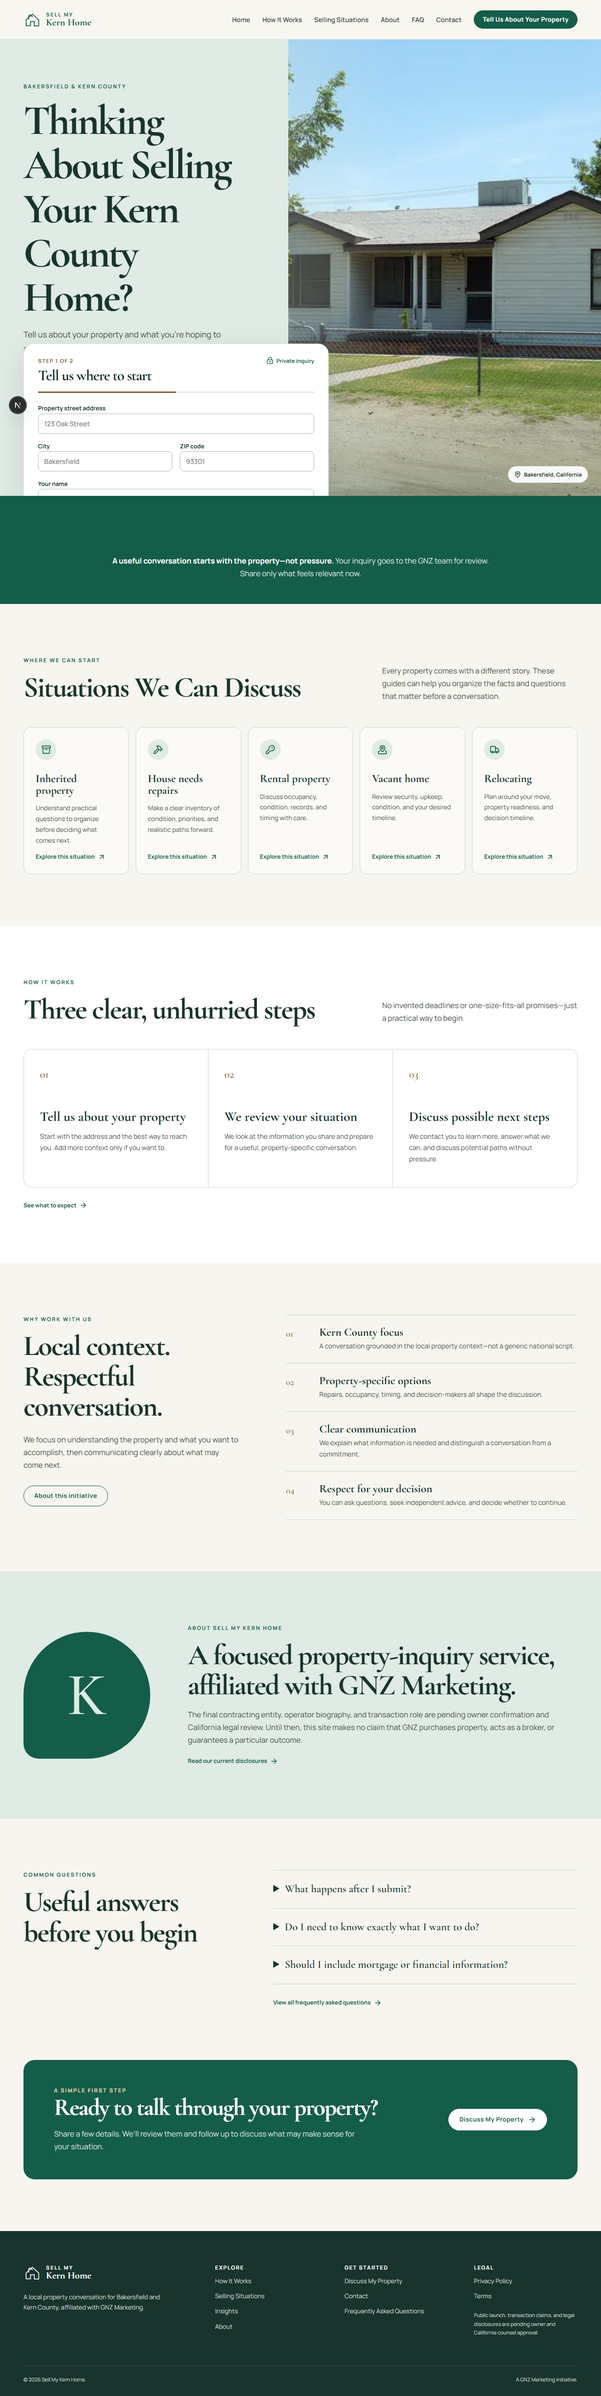
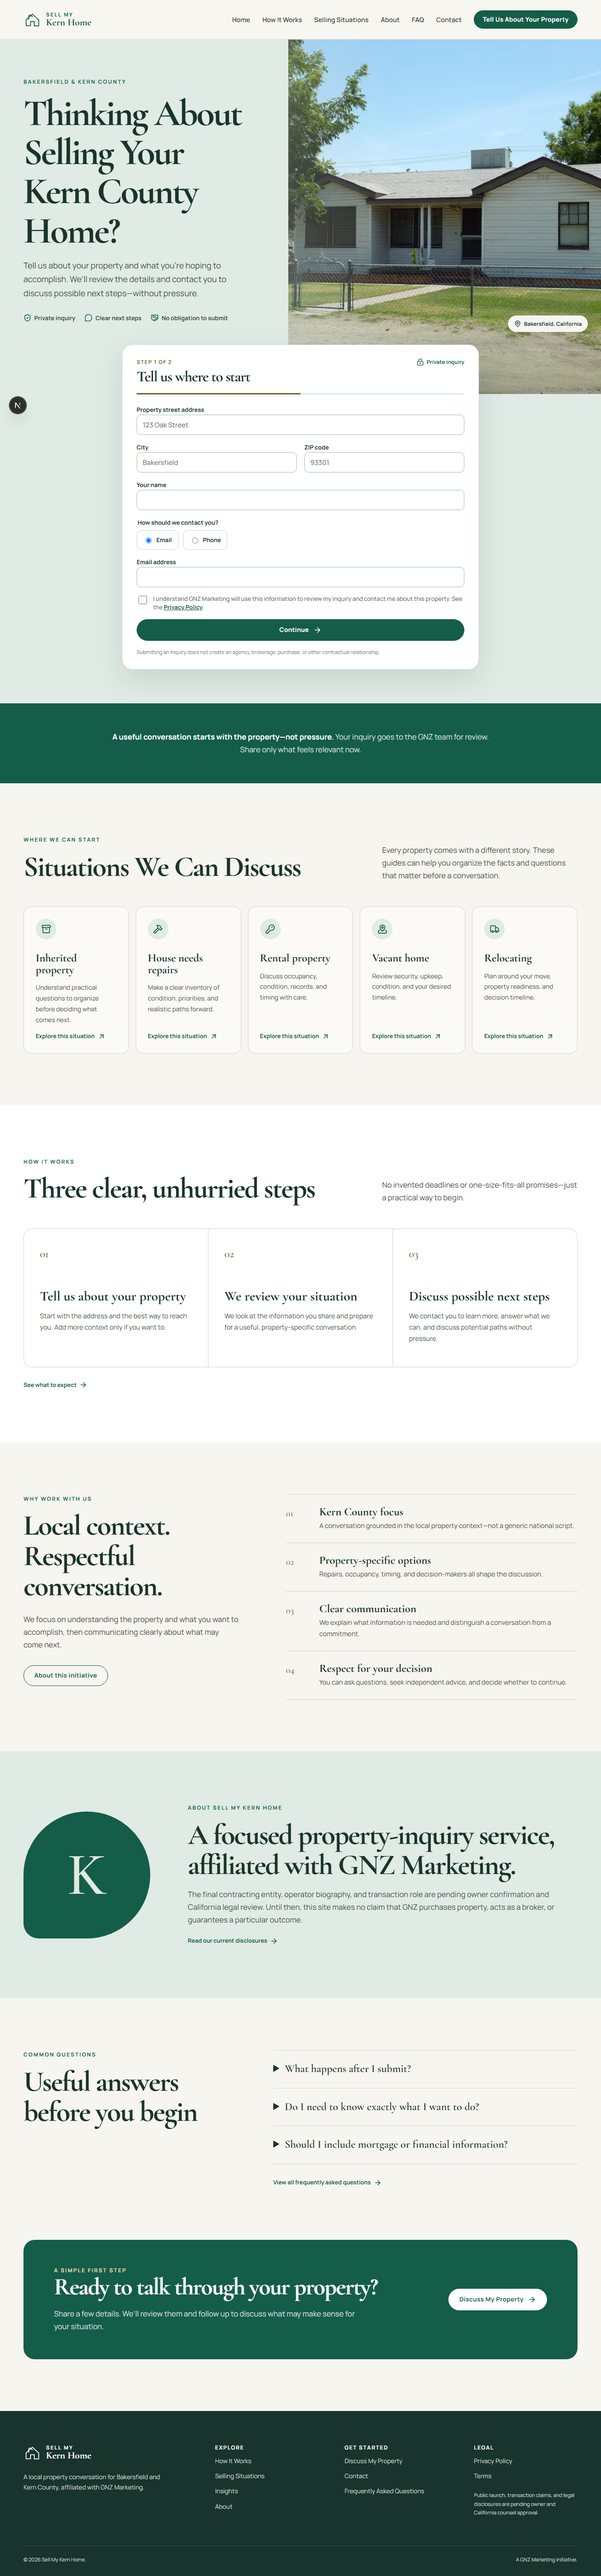
Fixed Interface and Turnstile Issues

diff --git a/components/PropertyForm.js b/components/PropertyForm.js
@@ -11,6 +11,18 @@ const empty = {
   privacyAcknowledged: false, marketingConsent: false, propertyType: "", condition: "", occupancy: "", timing: "", comments: "", website: "",
 };
 
+function firstStepErrors(data) {
+  const next = {};
+  if (data.propertyAddress.trim().length < 4) next.propertyAddress = "Enter the property street address.";
+  if (data.propertyCity.trim().length < 2) next.propertyCity = "Enter the property city.";
+  if (!/^\d{5}(-\d{4})?$/.test(data.propertyZip.trim())) next.propertyZip = "Enter a valid ZIP code.";
+  if (data.name.trim().length < 2) next.name = "Enter your name.";
+  if (data.preferredContact === "email" && !/^[^\s@]+@[^\s@]+\.[^\s@]+$/.test(data.email.trim())) next.email = "Enter a valid email address.";
+  if (data.preferredContact === "phone" && data.phone.replace(/\D/g, "").length < 10) next.phone = "Enter a valid phone number.";
+  if (!data.privacyAcknowledged) next.privacyAcknowledged = "Please acknowledge the privacy notice.";
+  return next;
+}
+
 function getAttribution() {
   if (typeof window === "undefined") return {};
   const query = new URLSearchParams(window.location.search);
@@ -51,14 +63,7 @@ export default function PropertyForm({ compact = false, initialAddress = "" }) {
   }
 
   function validateFirstStep() {
-    const next = {};
-    if (data.propertyAddress.trim().length < 4) next.propertyAddress = "Enter the property street address.";
-    if (data.propertyCity.trim().length < 2) next.propertyCity = "Enter the property city.";
-    if (!/^\d{5}(-\d{4})?$/.test(data.propertyZip.trim())) next.propertyZip = "Enter a valid ZIP code.";
-    if (data.name.trim().length < 2) next.name = "Enter your name.";
-    if (data.preferredContact === "email" && !/^[^\s@]+@[^\s@]+\.[^\s@]+$/.test(data.email.trim())) next.email = "Enter a valid email address.";
-    if (data.preferredContact === "phone" && data.phone.replace(/\D/g, "").length < 10) next.phone = "Enter a valid phone number.";
-    if (!data.privacyAcknowledged) next.privacyAcknowledged = "Please acknowledge the privacy notice.";
+    const next = firstStepErrors(data);
     setErrors(next);
     return !Object.keys(next).length;
   }
@@ -94,6 +99,7 @@ export default function PropertyForm({ compact = false, initialAddress = "" }) {
 
   const fieldError = (name) => errors[name] ? <span className="field-error" id={`${name}-error`}>{errors[name]}</span> : null;
   const describedBy = (name) => errors[name] ? `${name}-error` : undefined;
+  const firstStepIsValid = Object.keys(firstStepErrors(data)).length === 0;
 
   return <form id="property-form" className={`property-form ${compact ? "form-compact" : ""}`} onSubmit={submit} noValidate>
     <div className="form-heading"><div><span className="form-step">Step {step} of 2</span><h2>{step === 1 ? "Tell us where to start" : "Add property details"}</h2></div><span className="secure-note"><LockKeyhole size={16} /> Private inquiry</span></div>
@@ -107,7 +113,7 @@ export default function PropertyForm({ compact = false, initialAddress = "" }) {
       {data.preferredContact === "email" ? <div className="field-wide"><label htmlFor="email">Email address</label><input id="email" name="email" type="email" autoComplete="email" value={data.email} onChange={update} aria-invalid={Boolean(errors.email)} aria-describedby={describedBy("email")} />{fieldError("email")}</div> : <div className="field-wide"><label htmlFor="phone">Phone number</label><input id="phone" name="phone" type="tel" autoComplete="tel" value={data.phone} onChange={update} aria-invalid={Boolean(errors.phone)} aria-describedby={describedBy("phone")} />{fieldError("phone")}</div>}
       <label className="check-field field-wide"><input type="checkbox" name="privacyAcknowledged" checked={data.privacyAcknowledged} onChange={update} aria-invalid={Boolean(errors.privacyAcknowledged)} /><span>I understand GNZ Marketing will use this information to review my inquiry and contact me about this property. See the <a href="/privacy-policy" target="_blank">Privacy Policy</a>.</span></label>{fieldError("privacyAcknowledged")}
       <div className="honeypot" aria-hidden="true"><label htmlFor="website">Website</label><input id="website" name="website" tabIndex="-1" autoComplete="off" value={data.website} onChange={update} /></div>
-      <button className="button field-wide" type="button" onClick={continueForm}>Continue <ArrowRight size={18} /></button>
+      <button className="button field-wide" type="button" onClick={continueForm} disabled={!firstStepIsValid} title={!firstStepIsValid ? "Complete all required fields to continue." : undefined}>Continue <ArrowRight size={18} /></button>
     </div> : <div className="form-fields">
       <div><label htmlFor="propertyType">Property type <span>Optional</span></label><select id="propertyType" name="propertyType" value={data.propertyType} onChange={update}><option value="">Choose one</option><option>Single-family home</option><option>Condo or townhome</option><option>Multi-unit property</option><option>Manufactured home</option><option>Other</option></select></div>
       <div><label htmlFor="condition">Approximate condition <span>Optional</span></label><select id="condition" name="condition" value={data.condition} onChange={update}><option value="">Choose one</option><option>Move-in ready</option><option>Minor updates needed</option><option>Significant repairs needed</option><option>Unsure</option></select></div>

diff --git a/app/globals.css b/app/globals.css
@@ -170,7 +170,7 @@ summary:focus-visible {
 }
 .button:disabled {
   opacity: 0.65;
-  cursor: wait;
+  cursor: not-allowed;
   transform: none;
 }
 .button-secondary {
@@ -197,21 +197,22 @@ summary:focus-visible {
 }
 .hero {
   position: relative;
-  min-height: 760px;
+  min-height: 0;
   background: var(--sage);
   display: grid;
   grid-template-columns: 48% 52%;
-  grid-template-rows: 1fr;
+  grid-template-rows: minmax(640px, auto) auto;
   overflow: hidden;
 }
 .hero-copy {
   align-self: center;
-  padding: 90px max(40px, calc((100vw - 1180px) / 2)) 220px
+  padding: 80px max(40px, calc((100vw - 1180px) / 2)) 150px
     max(40px, calc((100vw - 1180px) / 2));
   padding-right: 6vw;
 }
 .hero-copy h1 {
   max-width: 730px;
+  font-size: clamp(4rem, 6.2vw, 5.75rem);
 }
 .hero-subhead {
   max-width: 650px;
@@ -236,7 +237,7 @@ summary:focus-visible {
 }
 .hero-visual {
   position: relative;
-  min-height: 760px;
+  min-height: 640px;
 }
 .hero-visual:after {
   content: "";
@@ -252,7 +253,7 @@ summary:focus-visible {
 .image-caption {
   position: absolute;
   right: 28px;
-  bottom: 28px;
+  bottom: 132px;
   z-index: 2;
   display: flex;
   align-items: center;
@@ -265,12 +266,11 @@ summary:focus-visible {
   font-weight: 700;
 }
 .hero-form-wrap {
-  position: absolute;
-  left: max(40px, calc((100vw - 1180px) / 2));
-  bottom: 0;
+  position: relative;
+  grid-column: 1 / -1;
   z-index: 4;
-  width: min(650px, calc(100% - 80px));
-  transform: translateY(53%);
+  width: min(760px, calc(100% - 80px));
+  margin: -105px auto 72px;
 }
 .property-form {
   scroll-margin-top: 100px;
@@ -339,6 +339,10 @@ summary:focus-visible {
 .form-fields label > span:not(.field-error) {
   font-weight: 500;
   color: #62716a;
+}
+.form-fields label:not(.check-field) > span:not(.field-error) {
+  margin-left: 0.35rem;
+  font-size: 0.72rem;
 }
 .form-fields input:not([type="checkbox"]):not([type="radio"]),
 .form-fields select,
@@ -434,8 +438,7 @@ summary:focus-visible {
   }
 }
 .reassurance {
-  min-height: 230px;
-  padding: 125px 20px 48px;
+  padding: 58px 20px;
   background: var(--forest);
   color: rgba(255, 255, 255, 0.82);
   text-align: center;
@@ -799,7 +802,7 @@ summary:focus-visible {
     padding-right: 4vw;
   }
   .hero h1 {
-    font-size: 4.7rem;
+    font-size: 4rem;
   }
 }
 @media (max-width: 800px) {
@@ -847,8 +850,12 @@ summary:focus-visible {
   .hero-visual {
     min-height: 380px;
   }
+  .image-caption {
+    bottom: 66px;
+  }
   .hero-form-wrap {
     position: relative;
+    grid-column: auto;
     left: auto;
     bottom: auto;
     width: calc(100% - 28px);

diff --git a/tests/e2e/site.spec.js b/tests/e2e/site.spec.js
@@ -6,15 +6,19 @@ test("homepage, navigation, and seller form are accessible", async ({ page }) =>
   await page.goto("/");
   await expect(page.getByRole("heading", { level: 1 })).toContainText("Thinking About Selling");
   await expect(page.getByLabel("Property street address")).toBeVisible();
+  const continueButton = page.getByRole("button", { name: "Continue" });
+  await expect(continueButton).toBeDisabled();
   await page.getByLabel("Property street address").fill("123 Test Street");
   await page.getByLabel("City").fill("Bakersfield");
   await page.getByLabel("ZIP code").fill("93301");
   await page.getByLabel("Your name").fill("Synthetic Seller");
   await page.getByLabel("Email address").fill("seller@example.test");
+  await expect(continueButton).toBeDisabled();
   const privacy = page.getByRole("checkbox", { name: /I understand GNZ Marketing/ });
   await privacy.check();
   await expect(privacy).toBeChecked();
-  await page.getByRole("button", { name: "Continue" }).click();
+  await expect(continueButton).toBeEnabled();
+  await continueButton.click();
   await expect(page.getByRole("heading", { name: "Add property details" })).toBeVisible();
   const overflow = await page.evaluate(() => document.documentElement.scrollWidth - document.documentElement.clientWidth);
   expect(overflow).toBeLessThanOrEqual(1);
